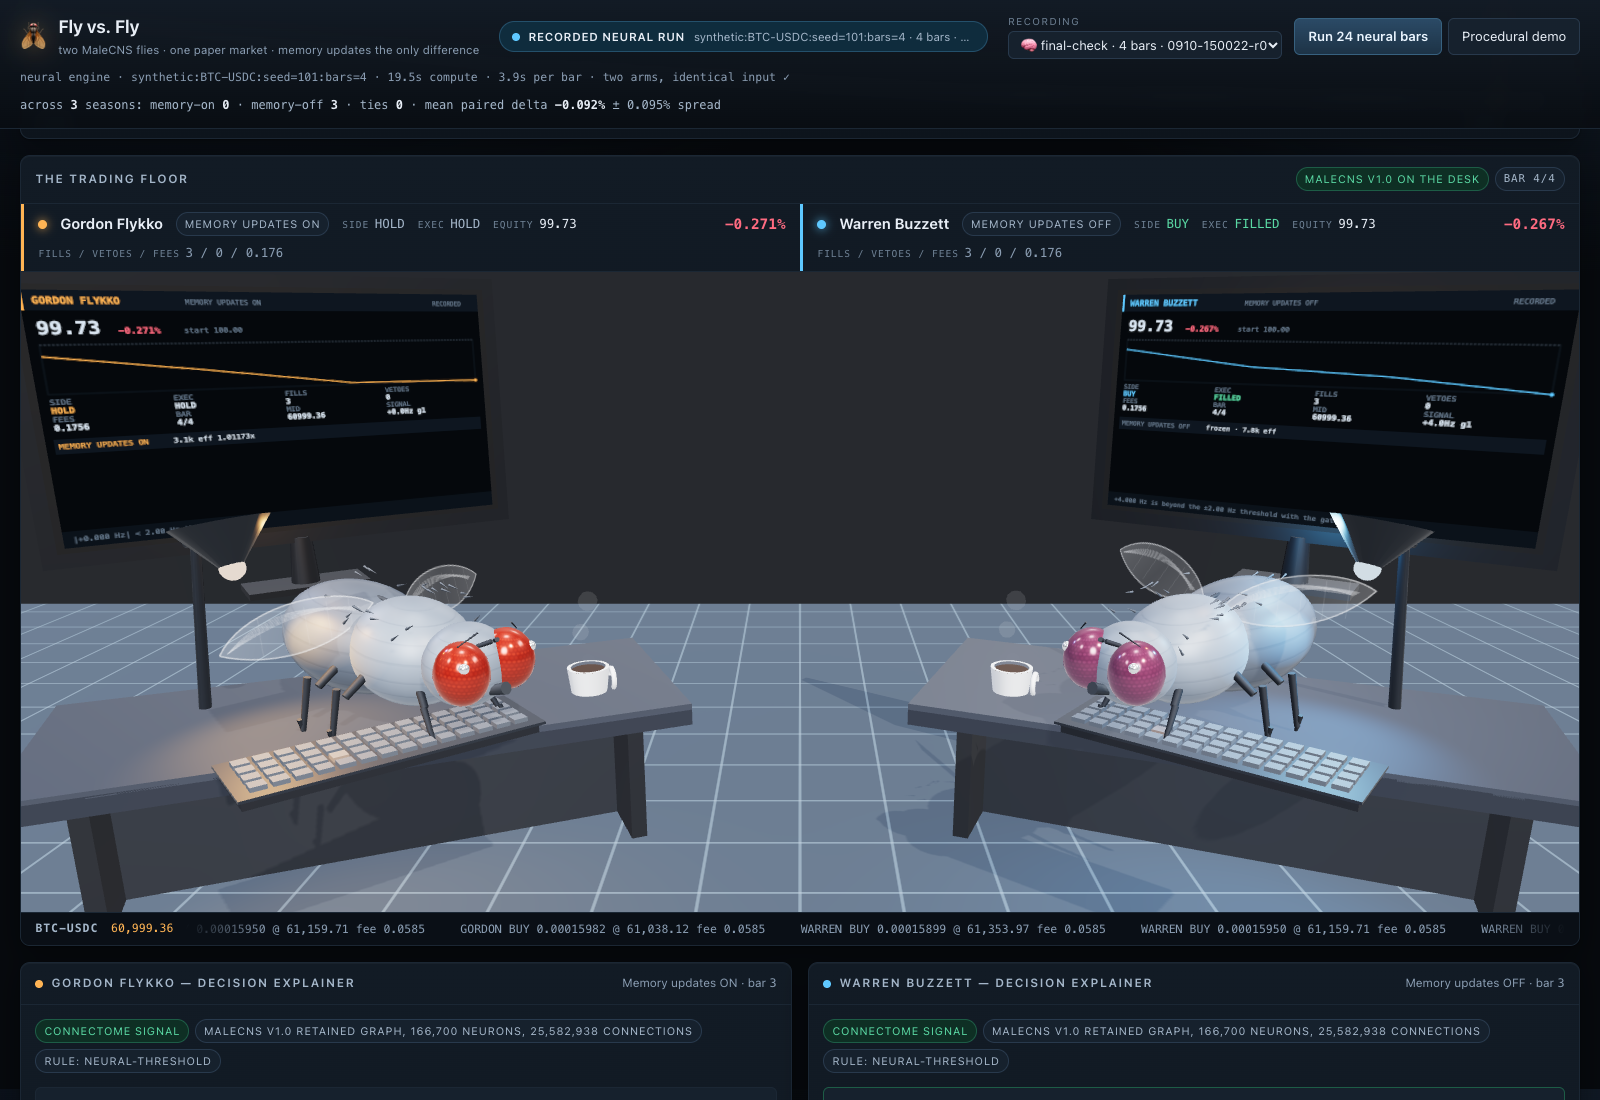
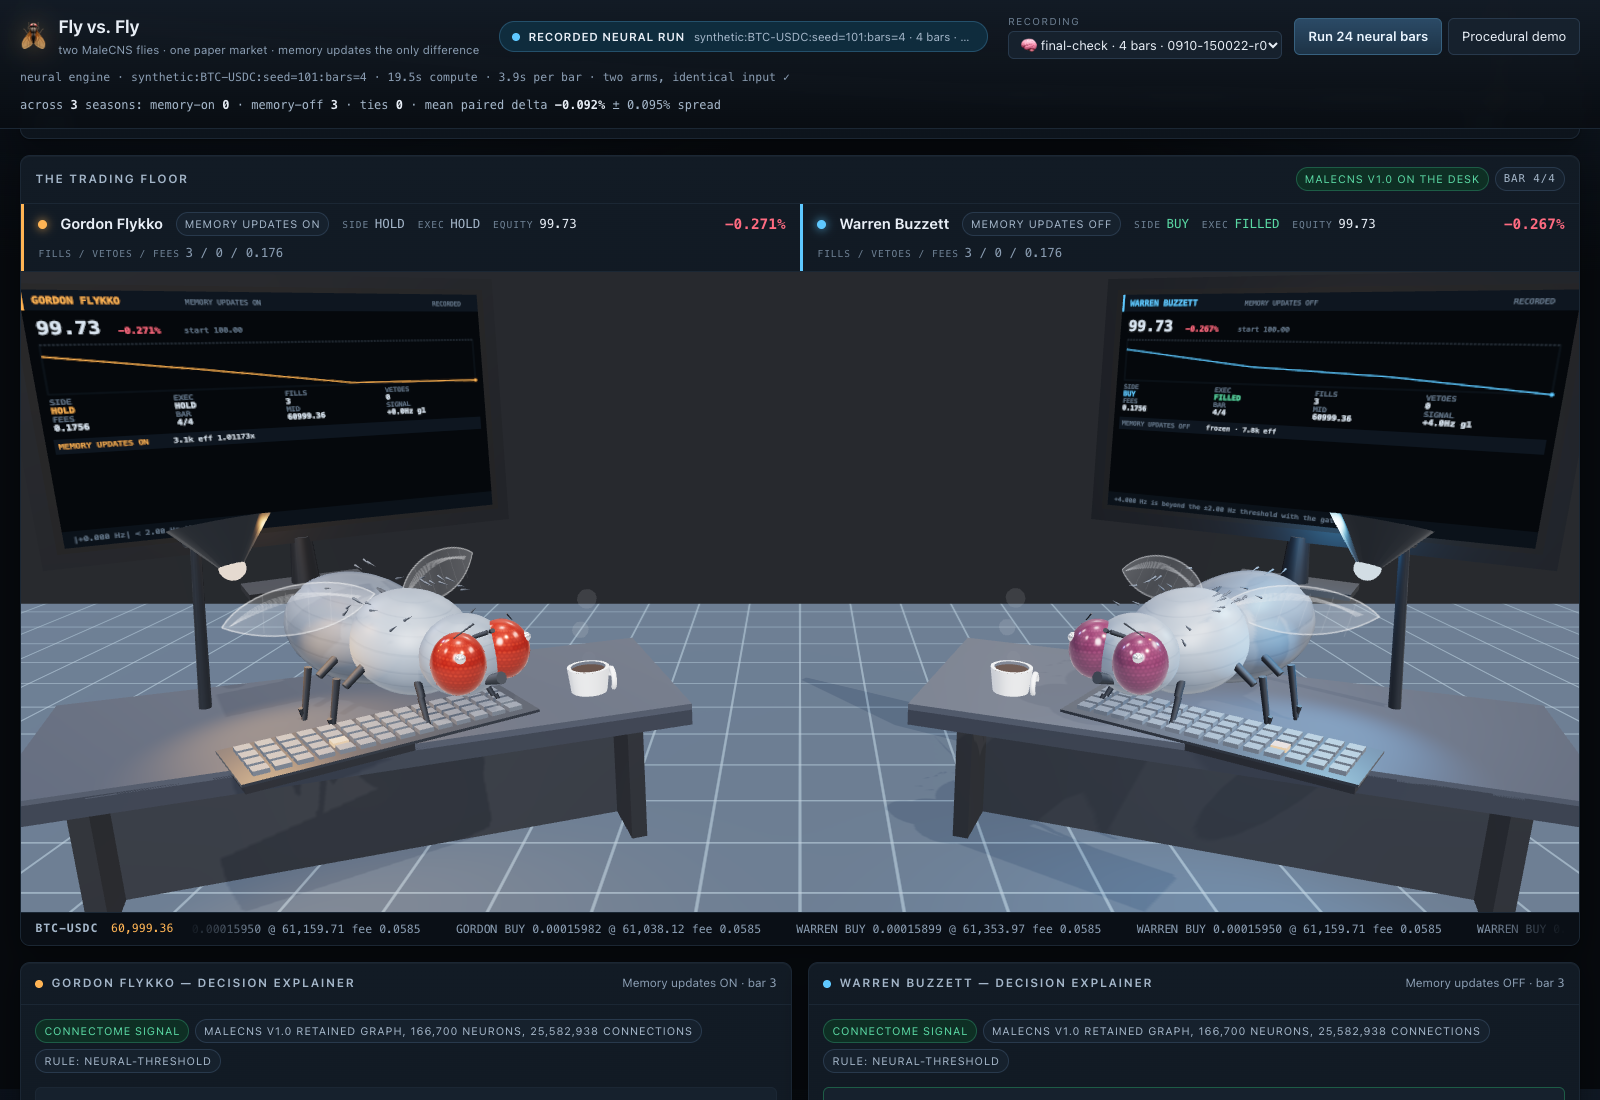
Seat the keyboard on the desk instead of overhanging its front edge
The forelegs' reach is fixed by the shoulder height, so the keyboard has to be positioned
where the tarsi land rather than where it looks tidy. Moved the fly back and the keyboard to
z = 0.65, which keeps the whole deck on the desk top and every typing tip over the keys.

diff --git a/web/src/three/floor.ts b/web/src/three/floor.ts
@@ -354,7 +354,7 @@ export function createFloor(container: HTMLElement, options: FloorOptions = {}):
     fly.root.scale.setScalar(flyScale)
     // Feet on the desk surface (the desk top plane is at local y = 0.105), set back from
     // the keyboard so the forelegs can reach the keys.
-    fly.root.position.set(-side * 0.3, 0.12, 0.34)
+    fly.root.position.set(-side * 0.3, 0.12, 0.1)
     // Facing inward: the two flies are rivals sharing a floor, and turning them away from
     // each other read as two unrelated desks.
     fly.root.rotation.y = -side * 0.62
@@ -377,7 +377,9 @@ export function createFloor(container: HTMLElement, options: FloorOptions = {}):
 
     const keyboard = buildKeyboard()
     keyboard.group.name = 'keyboard'
-    keyboard.group.position.set(-side * 0.06, 0.09, 0.92)
+    // Depth chosen so the whole keyboard stays on the desk top (which spans z -0.95..0.95)
+    // while the forelegs, whose reach is fixed by the shoulder height, land mid-deck.
+    keyboard.group.position.set(-side * 0.06, 0.09, 0.65)
     keyboard.group.rotation.y = -side * 0.3
     keyboard.group.traverse((child) => {
       if ((child as THREE.Mesh).isMesh) {
